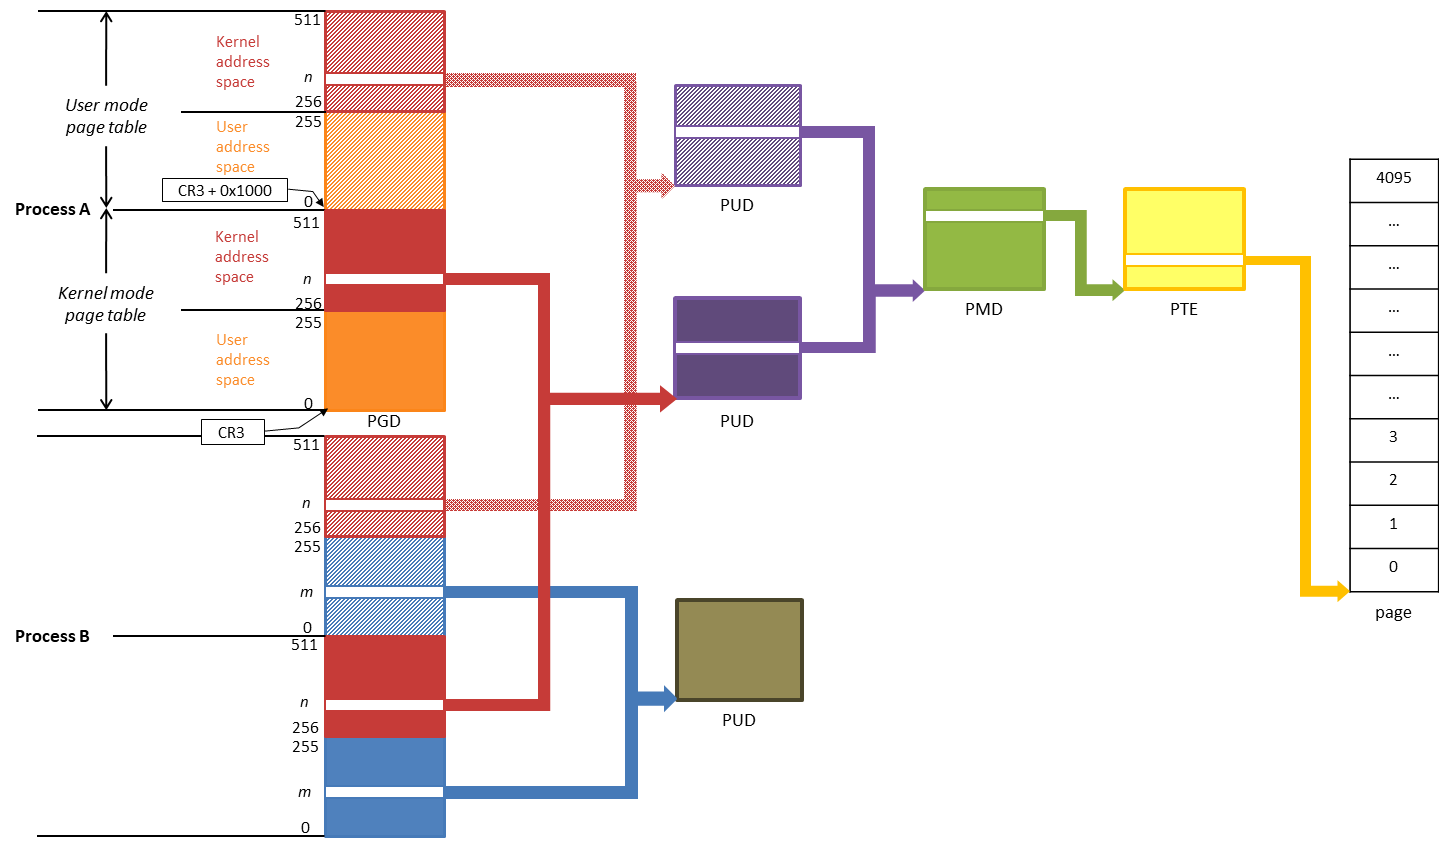
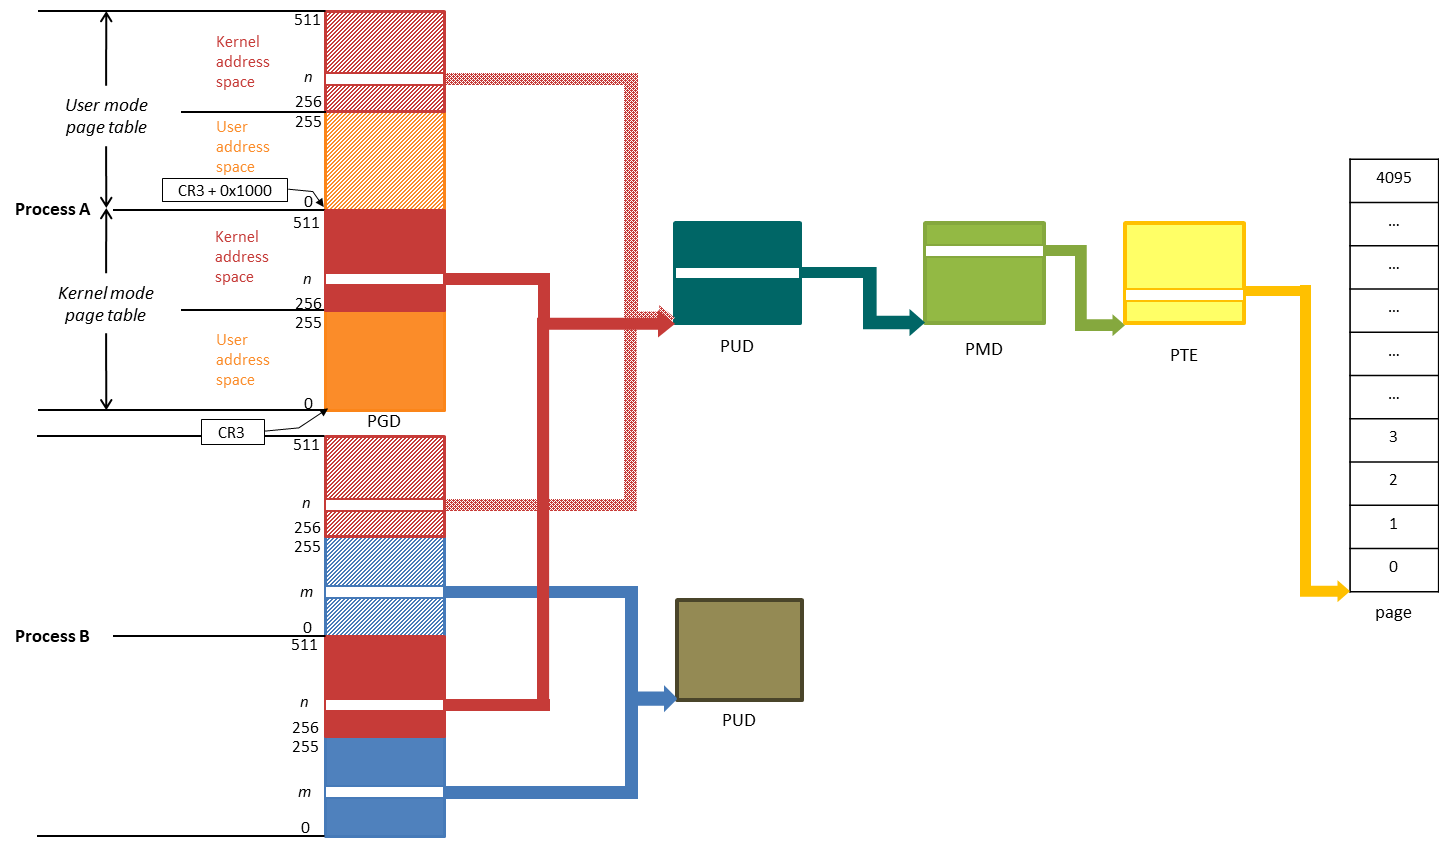
kpti and mm

Changed region(s): [[0.3669, 0.092, 0.9173, 0.5212]]

diff --git a/kernel/mm/mm_pagetable.md b/kernel/mm/mm_pagetable.md
@@ -1,0 +1,185 @@
+# 页表
+
+* *应用程序操作的对象* 是映射到物理内存之上的 *虚拟内存*。
+* CPU 直接操作的是 *物理内存*。
+* 应用程序访问一个虚拟地址时，MMU 先将虚拟地址转换成物理地址，然后处理器才能解析地址访问请求。
+* 地址转换需要通过查询 **[页表](https://en.wikipedia.org/wiki/Page_table)** 才能完成。
+  * 地址转换需要将虚拟地址分段，每段虚拟地址作为一个索引指向页表
+  * 页表项指出下一级别的页表所在的物理地址或者指向最终的物理页面。
+![http://45.79.74.171/wp-content/uploads/2013/09/page-1.gif](pic/mm_paging.gif)
+
+## 页表为什么要分级？
+* [Linux内核4级页表的演进](http://larmbr.com/2014/01/19/the-evolution-of-4-level-page-talbe-in-linux/)讲的蛮好
+* 简单地说，分级的目的是为了 **节省内存**
+  * 如果采用一个简单的大页表一对一映射虚拟地址到物理地址，需要较多的 **连续的物理页面(phsical page)**，因为是 **一对一** 映射，此时又未分级，所以必须是 **连续的**。
+  * 如果进程比较多，则需要大量的连续物理页，这不现实。
+  * 然而，在现实中，程序存在局部化特征, 这意味着在特定的时间内只有部分内存会被频繁访问，具体点，进程空间中的`.text`段(即程序代码), 堆， 共享库，栈都是固定在进程空间的某个特定部分，这样导致进程空间其实是非常稀疏的。
+  * 所谓 **分级** 简单说就是，把整个进程空间分成区块（block），区块下面可以再细分，这样在内存中只要常驻某个区块的页表即可，这样可以大量节省内存。
+  * 这里的套路是：
+    * 区块中的条目存的是下一级区块的 **基址** （物理地址）
+    * 将虚拟地址的不同位分别作为不同级别区块的 **索引**（可转化为 **偏移**）
+    * 只要提供 *最上级页目录的基址* 和 *虚拟地址*，即可采用 **基址 + 偏移** 的方式逐级索引至物理地址。
+  * 每个区块所需的空间并不大，而进程空间中未使用的地址无需建立对应的区块，因此每个进程的页表用的空间并不多，这样目的就达到了。
+
+## 四级页表
+![4 level page table](pic/mm_pt_4lv.png)
+* Linux x86-64 默认用的四级页表完成地址转换
+* x86-64 的四级页表用到了 48 位虚拟地址，虚拟地址段的划分是 **9-9-9-9-12**
+* 总共可管理 256 TB 的虚拟地址空间
+* 一个页表项的长度与`unsigned long`一致，在 64 位平台为 **8 Byte**
+* 顶级页表——**页全局目录（page global directory，PDG）**
+  * 包含一个`pdg_t`类型的数组
+  * 表项指向二级页目录 *PUD* 的物理基址
+  * 每个 PGD 页表项可管理 512 GB 虚拟地址
+* 二级页表——**PUD**
+  * `pud_t`类型数组
+  * 表项指向三级页目录 *PMD* 的物理基址
+  * 每个 PUD 页表项可管理 1 GB 虚拟地址
+* 三级页表——**中间页目录（page middle directory，PMD）**
+  * `pmd_t`类型数组
+  * 表项指向四级页目录 *PTE* 的物理基址
+  * 每个 PMD 页表项可管理 2 MB 虚拟地址
+* 四级页表——**PTE**
+  * 包含`pte_t`类型的页表项
+  * 页表项指向物理页面的基址
+  * 每个 PTE 页表项可管理 4 KB 虚拟地址
+* 由于默认采用的是 4KB（4096 = 2<sup>12</sup> = 2<<12）大小的 page，因此页分配时对齐到 4KB，这样页的首个物理的低 12 位必然是 0
+* 页表项的内容是物理基址，因此没有用上的低 12 位可以用来作为标志位
+* 目前，最高位也被用作标志位了，`_PAGE_NX` not-execuable 标志位
+
+### 实例：四级页表寻址
+* 略微改造了一下 `arch/x86/mm/pageattr.c::print_pte()`打印虚拟地址 `0xffffffffff5ff0a8` 的寻址过程
+* 得到结果如下：
+  ```
+  address: 0xffffffffff5ff0a8
+  pgd: 0x1e0e067
+  pud: 0x1e10067
+  pmd: 0x1e11067
+  kernel pte for 0xffffffffff5ff0a8: va:ffff880001e11ff8 val:0x8000000001ee4165 level:1
+  address: 0xffffffffff5ff0a8
+  pgd: 0x16d05067
+  pud: 0x16d0a067
+  pmd: 0x16d0b067
+  shadow pte for 0xffffffffff5ff0a8: va:ffff880016d0bff8 val:0x8000000001ee4065 level:1
+  ```
+#### 以 pmd -> pte 的过程为例
+
+##### 基址部分
+* PMD 页表项的内容为 PTE 页的物理基址，这里我们看到该物理页的基址为`0x1e11000`，记住，低 12 位是页表项标志位
+* 页表必然是一致映射，虚拟地址为 **物理地址加上偏移**，在未启用内核地址随机化时该偏移为`PAGE_OFFSET`，因此该 PTE 页的虚拟地址为`0xffff880001e11000`
+* arch/x86/include/asm/page.h
+  ```c
+  #ifndef __va
+  #define __va(x)         ((void *)((unsigned long)(x)+PAGE_OFFSET))
+  #endif
+  ```
+* arch/x86/include/asm/page_types.h
+  ```c
+  #define PAGE_OFFSET     ((unsigned long)__PAGE_OFFSET)
+  ```
+* arch/x86/include/asm/page_64_types.h
+  ```c
+  #ifdef CONFIG_X86_5LEVEL
+  #define __PAGE_OFFSET_BASE      _AC(0xff10000000000000, UL)
+  #else
+  #define __PAGE_OFFSET_BASE      _AC(0xffff880000000000, UL)
+  #endif
+
+  #ifdef CONFIG_RANDOMIZE_MEMORY
+  #define __PAGE_OFFSET           page_offset_base
+  #else
+  #define __PAGE_OFFSET           __PAGE_OFFSET_BASE
+  #endif /* CONFIG_RANDOMIZE_MEMORY */
+  ...__```
+  ```
+
+##### 偏移部分
+* 虚拟地址的低 48 位为 `0xffffff5ff0a8`，二进制为`1111 1111 1111 1111` `1111 1111 0101 1111` `1111 0000 1010 1000`
+* 其中，从 0 算起第 12-20 位为该地址在 PTE 页中的索引，也就是 `1 1111 1111`，注意，该值只是目录项索引，要想得到 PTE 页表项的虚拟地址，还需要用索引乘以页表项的长度得到该虚拟地址到基址的偏移，x86-64 的页表项长度为 8 Byte，可以将索引左移三位得到`1111 1111 1000`，即`0xff8`
+
+##### pte 页表项虚拟地址
+* 之前说过，分页寻址都是 **基址 + 偏移** 的套路，因此这里 pte 页表项虚拟地址为 `0xffff880001e11000 + 0xff8 = 0xffff880001e11ff8`
+* 可以看到，其内容为`0x8000000001ee4165`，其中
+  * 最高位的`0x8000000000000000`是`_PAGE_NX`标志位
+  * 低 12 位`0x165`是页表项的标志位
+  * `0x1ee4000`是 page 的物理基址，该地址偏移`0x0a8 Byte`处的内容即为虚拟地址 `0xffffffffff5ff0a8`最后要访问的内容
+
+
+## 五级页表
+![5 level page table](pic/mm_pt_5lv.png)
+* Linux x86-64 从 v4.14 开始支持五级页表完成地址转换
+* x86-64 的五级页表用到了 57 位虚拟地址，虚拟地址段的划分是 **9-9-9-9-9-12**
+* 总共可管理 128 PB 的虚拟地址空间
+* 顶级页表
+  * 每个 PGD 页表项可管理 256 TB 虚拟地址
+* 二级页表——新增的 **P4D**
+  * `p4d_t`类型数组
+  * 每个 P4D 页表项可管理 512 GB 虚拟地址
+* 三、四、五级页表 PUD、PMD、PTE，每级页表项可管理的虚拟地址空间范围与采用四级页表时的一致
+
+
+## MMU 和 缺页
+![page table level](pic/page_table_level.png)
+
+* 多数体系结构中，搜索页表的工作由硬件（如MMU）完成（至少某种程度上），但前提是内核正确设置页表。
+* 每个进程都有自己的页表，当然，线程会共享页表。
+  * `struct mm_struct`的`pgd_t *pgd`域指向进程的页全局目录 **PDG**。
+  * 注意：操作和检索页表使必须使用`struct mm_struct`中的`page_table_lock`锁，以防竞争。
+  * 当进程切换发生的时候，进程的给 **用户空间** 的页表也会随之切换。
+* **[翻译后缓冲器（translation lookaside buffer，TLB）](https://en.wikipedia.org/wiki/Translation_lookaside_buffer)**——为了加快从虚拟内存中页面到物理内存中对应地址的搜索，多数体系结构都实现了一个将虚拟地址映射到物理地址的硬件缓存。
+  * 当访问一个虚拟地址时，CPU的MMU先检查TLB中是否缓存了该虚拟地址到物理地址的映射，如果在缓存中直接命中，物理地址立刻返回。
+  * 否则，通过页表搜索需要的物理地址。
+  * TLB中缓冲的是 **页表条目（PTE）**，而不是物理页。因此TLB命中返回PTE给MMU后，节省了MMU去查询页表的时间，仍然需要通过cache/memory去获取内容。
+* **[MMU](https://en.wikipedia.org/wiki/Memory_management_unit)** 是一种负责处理中央处理器（CPU）的内存访问请求的计算机硬件。它的功能包括：
+  * 虚拟地址到物理地址的转换（即虚拟内存管理）
+  * 内存保护、CPU cache的控制
+  * 在较为简单的计算机体系结构中，负责总线的仲裁以及存储体切换（bank switching，尤其是在8位的系统上）
+*  **[缺页（page fault）](https://en.wikipedia.org/wiki/Page_fault)**
+
+> A **page fault** (sometimes called #PF, PF or hard fault[a]) is a type of interrupt, called trap, raised by computer hardware when a running program accesses a memory page that is mapped into the virtual address space, but not actually loaded into main memory. The hardware that detects a page fault is the processor's memory management unit (MMU), while the exception handling software that handles page faults is generally a part of the operating system kernel. When handling a page fault, the operating system generally tries to make the required page accessible at the location in physical memory, or terminates the program in case of an illegal memory access.
+
+* MMU 在缺页中的角色：
+  * *MMU* 作为活动的主体，查询 *页表*。
+  * 当发生缺页时，（硬件）引发缺页异常，将控制权交回内核（软件）处理。
+* 从页表的角度来说，发生 page fault 时，PTE 的状态可能是：
+  * PTE 是有的，虚拟地址曾经被使用过，但已被换出，PTE 的 *Present* flag 已被清除。
+  * 该虚拟地址从未被映射过，PTE 完全为空（全零）。
+* arch/x86/include/asm/pgtable.h
+```c
+static inline int pte_present(pte_t a)
+{
+    return pte_flags(a) & (_PAGE_PRESENT | _PAGE_PROTNONE);
+}
+```
+* arch/x86/include/asm/pgtable_types.h
+```c
+#define _PAGE_BIT_PRESENT   0   /* is present */
+...
+#define _PAGE_PRESENT   (_AT(pteval_t, 1) << _PAGE_BIT_PRESENT)
+...
+static inline pteval_t native_pte_val(pte_t pte)
+{
+    return pte.pte;
+}
+
+static inline pteval_t pte_flags(pte_t pte)
+{
+    return native_pte_val(pte) & PTE_FLAGS_MASK;
+}
+..._```
+```
+
+###### Classic page-table format used on the Intel x86, Pentium, and Pentium Pro family, as well as on the PowerPC 821 and 860 PowerQUICC processors.
+![http://www.lynx.com/wp-content/uploads/2013/08/mmu-fig2-02b-300x291.gif](pic/mmu-x86-paging.gif)
+* 这里只采用了两级页表。
+
+
+# 参考资料
+
+* [Using the Microprocessor MMU for Software Protection in Real-Time Systems](http://www.lynx.com/using-the-microprocessor-mmu-for-software-protection-in-real-time-systems/)
+* [Linux内核4级页表的演进](http://larmbr.com/2014/01/19/the-evolution-of-4-level-page-talbe-in-linux/)
+* [地址空间的归纳总结](http://alanwu.blog.51cto.com/3652632/1082195)
+* [PCI设备的地址空间](http://www.cnblogs.com/zszmhd/archive/2012/05/08/2490105.html)
+* [Linux内核追踪[4.14] X86的5级页表管理](http://blog.csdn.net/lovelycheng/article/details/78545502)
+* [lwn: Five-level page tables](https://lwn.net/Articles/717293/)
+* [lwn: x86: 5-level paging enabling for v4.12](https://lwn.net/Articles/716916/)

diff --git a/kernel/mm/mm-1-process_addr_spc.md b/kernel/mm/mm-1-process_addr_spc.md
@@ -618,80 +618,6 @@ MAP_NONBLOCK | Do not block on I/O.
   int munmap(void *addr, size_t length);
   ```
 
-# 页表
-
-* *应用程序操作的对象* 是映射到物理内存之上的 *虚拟内存*。
-* CPU直接操作的是 *物理内存*。
-* 应用程序访问一个虚拟地址时，要先将虚拟地址转换成物理地址，然后处理器才能解析地址访问请求。
-* 地址转换需要通过查询 **[页表](https://en.wikipedia.org/wiki/Page_table)** 才能完成。
-  * 地址转换需要将虚拟地址分段，每段虚拟地址作为一个索引指向页表
-  * 页表项指向下一级别的页表或者指向最终的物理页面。
-![http://45.79.74.171/wp-content/uploads/2013/09/page-1.gif](pic/mm_paging.gif)
-* Linux用的四级页表完成地址转换。
-* 顶级页表——**页全局目录（page global directory，PDG）**
-  * 包含一个`pdg_t`类型的数组，多数体系结构中等同于`unsigned long`
-  * 表项指向二级页目录中的表项 *PMD*
-* 二级页表——**PUD**
-* 三级页表——**中间页目录（page middle directory，PMD）**
-  * `pmd_t`类型数组
-  * 表项指向 *PTE* 中的表项
-* 最后一级页表——**页表（page table）**
-  * 包含`pte_t`类型的页表项 **（PTE）**
-  * 页表项指向物理页面
-
-![page table level](pic/page_table_level.png)
-
-* 多数体系结构中，搜索页表的工作由硬件（如MMU）完成（至少某种程度上），但前提是内核正确设置页表。
-* 每个进程都有自己的页表，当然，线程会共享页表。
-  * `struct mm_struct`的`pgd_t *pgd`域指向进程的页全局目录 **PDG**。
-  * 注意：操作和检索页表使必须使用`struct mm_struct`中的`page_table_lock`锁，以防竞争。
-  * 当进程切换发生的时候，进程的给 **用户空间** 的页表也会随之切换。
-* **[翻译后缓冲器（translation lookaside buffer，TLB）](https://en.wikipedia.org/wiki/Translation_lookaside_buffer)**——为了加快从虚拟内存中页面到物理内存中对应地址的搜索，多数体系结构都实现了一个将虚拟地址映射到物理地址的硬件缓存。
-  * 当访问一个虚拟地址时，CPU的MMU先检查TLB中是否缓存了该虚拟地址到物理地址的映射，如果在缓存中直接命中，物理地址立刻返回。
-  * 否则，通过页表搜索需要的物理地址。
-  * TLB中缓冲的是 **页表条目（PTE）**，而不是物理页。因此TLB命中返回PTE给MMU后，节省了MMU去查询页表的时间，仍然需要通过cache/memory去获取内容。
-* **[MMU](https://en.wikipedia.org/wiki/Memory_management_unit)** 是一种负责处理中央处理器（CPU）的内存访问请求的计算机硬件。它的功能包括：
-  * 虚拟地址到物理地址的转换（即虚拟内存管理）
-  * 内存保护、CPU cache的控制
-  * 在较为简单的计算机体系结构中，负责总线的仲裁以及存储体切换（bank switching，尤其是在8位的系统上）
-*  **[缺页（page fault）](https://en.wikipedia.org/wiki/Page_fault)**
-
-> A **page fault** (sometimes called #PF, PF or hard fault[a]) is a type of interrupt, called trap, raised by computer hardware when a running program accesses a memory page that is mapped into the virtual address space, but not actually loaded into main memory. The hardware that detects a page fault is the processor's memory management unit (MMU), while the exception handling software that handles page faults is generally a part of the operating system kernel. When handling a page fault, the operating system generally tries to make the required page accessible at the location in physical memory, or terminates the program in case of an illegal memory access.
-
-* MMU在缺页中的角色：
-  * *MMU* 作为活动的主体，查询 *页表*。
-  * 当发生缺页时，（硬件）引发缺页异常，将控制权交回内核（软件）处理。
-* 从页表的角度来说，发生page fault时，PTE的状态可能是：
-  * PTE是有的，虚拟地址曾经被使用过，但已被换出，PTE的 *Present* flag已被清除。
-  * 该虚拟地址从未被映射过，PTE完全为空（全零）。
-* arch/x86/include/asm/pgtable.h
-```c
-static inline int pte_present(pte_t a)
-{
-    return pte_flags(a) & (_PAGE_PRESENT | _PAGE_PROTNONE);
-}
-```
-* arch/x86/include/asm/pgtable_types.h
-```c
-#define _PAGE_BIT_PRESENT   0   /* is present */
-...
-#define _PAGE_PRESENT   (_AT(pteval_t, 1) << _PAGE_BIT_PRESENT)
-...
-static inline pteval_t native_pte_val(pte_t pte)
-{
-    return pte.pte;
-}
-
-static inline pteval_t pte_flags(pte_t pte)
-{
-    return native_pte_val(pte) & PTE_FLAGS_MASK;
-}
-...
-```
-###### Classic page-table format used on the Intel x86, Pentium, and Pentium Pro family, as well as on the PowerPC 821 and 860 PowerQUICC processors.
-![http://www.lynx.com/wp-content/uploads/2013/08/mmu-fig2-02b-300x291.gif](pic/mmu-x86-paging.gif)
-* 这里只采用了两级页表。
-
 # 题外话
 ## 共享库、静态链接和二进制程序在运行时对内存消耗有怎样的影响？
 * 这里要明确的一点是，共享库对减小存储器（硬盘、flash）的消耗肯定是有一定帮助的。
@@ -702,18 +628,6 @@ static inline pteval_t pte_flags(pte_t pte)
   * 对于链接到同一共享库的 **不同程序** 来说，则可以从共享库的映射中获得好处，因为同一共享库的`.text`只会映射到同一物理页。如，bash 和 vi 都链接到的 libc.so 共享同一物理页。
   * 用静态链接显然就没有这一好处了，静态链接实际上把内容合并到程序的二进制文件中，在运行不同程序时无法区分这些相同的内容，因此必然会消耗更多的内存。
 
-## 页表为什么要分级？
-* [Linux内核4级页表的演进](http://larmbr.com/2014/01/19/the-evolution-of-4-level-page-talbe-in-linux/)讲的蛮好
-* 简单地说，分级的目的是为了 **节省内存**
-  * 如果采用一个简单的大页表一对一映射虚拟地址到物理地址，需要较多的 **连续的物理页面(phsical page)**，因为是 **一对一** 映射，此时又未分级，所以必须是 **连续的**。
-  * 如果进程比较多，则需要大量的连续物理页，这不现实。
-  * 然而，在现实中，程序存在局部化特征, 这意味着在特定的时间内只有部分内存会被频繁访问，具体点，进程空间中的`.text`段(即程序代码), 堆， 共享库，栈都是固定在进程空间的某个特定部分，这样导致进程空间其实是非常稀疏的。
-  * 所谓 **分级** 简单说就是，把整个进程空间分成区块（block），区块下面可以再细分，这样在内存中只要常驻某个区块的页表即可，这样可以大量节省内存。
-  * 这里的套路是：
-    * 区块中的条目存的是下一级区块的 **基址** （物理地址）
-    * 将虚拟地址的不同位分别作为不同级别区块的 **索引**（也就是 **偏移**）
-    * 只要提供 *最上级页目录的基址* 和 *虚拟地址*，即可采用 **基址 + 偏移** 的方式逐级索引至物理地址。
-  * 每个区块所需的空间并不大，而进程空间中未使用的地址无需建立对应的区块，因此每个进程的页表用的空间并不多，这样目的就达到了。
 
 # 参考资料
 
@@ -722,9 +636,3 @@ static inline pteval_t pte_flags(pte_t pte)
 * [The Performance Impact of Kernel Prefetching on Buffer Cache Replacement Algorithms](http://www.cs.arizona.edu/projects/dream/papers/sigm05_prefetch.pdf)
 * [Linux Cache 机制探究](http://www.penglixun.com/tech/system/linux_cache_discovery.html)
 * [Using the Microprocessor MMU for Software Protection in Real-Time Systems](http://www.lynx.com/using-the-microprocessor-mmu-for-software-protection-in-real-time-systems/)
-* [Linux内核4级页表的演进](http://larmbr.com/2014/01/19/the-evolution-of-4-level-page-talbe-in-linux/)
-* [地址空间的归纳总结](http://alanwu.blog.51cto.com/3652632/1082195)
-* [PCI设备的地址空间](http://www.cnblogs.com/zszmhd/archive/2012/05/08/2490105.html)
-* [Linux内核追踪[4.14] X86的5级页表管理](http://blog.csdn.net/lovelycheng/article/details/78545502)
-* [lwn: Five-level page tables](https://lwn.net/Articles/717293/)
-* [lwn: x86: 5-level paging enabling for v4.12](https://lwn.net/Articles/716916/)

diff --git a/kernel/issues/kpti/kpti.md b/kernel/issues/kpti/kpti.md
@@ -1,6 +1,8 @@
 # KPTI
 ## 目录
 - [KPTI与KAISER](#KPTI与KAISER)
+	- [内核地址空间的页表映射](#内核地址空间的页表映射)
+	- [用户地址空间的页表映射](#用户地址空间的页表映射)
 - [上游仓库的pti分支](#上游仓库的pti分支)
 - [pti.c](#ptic)
 - [进程页表的创建](#进程页表的创建)
@@ -24,14 +26,31 @@
 * 对于 **同一进程**，内核态页表与用户态页表用于映射内核地址空间部分的页表项是 **不同的**，这就是 **页表隔离**。
 * 并非所有的内核页表条目在用户态页表内有克隆，仅仅是处理系统调用、中断、中断描述符、trace等最必要的一部分内核地址空间页表在用户态页表有克隆，否则切换`cr3`之后剩余的一些必要的内核代码无法执行或数据无法访问了。
 
+#### 四级页表——共享PUD
 ![pic/kpti_krnl.png](pic/kpti_krnl.png)
+* 对于某一段内核地址空间可以采用如下映射方式
+	* 同一进程内核态页表和用户态页表的 PGD 页表项都存的是同一个 PUD 页的物理地址
+	* 不同进程由于都是从父进程 clone 过来的，因此也共享该 PUD 页
+
+#### 四级页表——共享page
+![pic/kpti_krnl.png](pic/kpti_krnl_4lv.png)
+* 对于某一段内核地址空间也可以采用如下映射方式
+	* 内核态页表和用户态页表的各级页表都分配不同的 page 来存放下一级页表物理基址
+	* 直到 PTE 一级才在内核态页表和用户态页表填入相同的 page 物理基址
+
+#### 五级页表——共享PUD
+![pic/kpti_krnl.png](pic/kpti_krnl_5lv.png)
+* **四级页表——共享PUD** 是 **五级页表——共享PUD** 的简化方式，因为四级页表没有 P4D
 
 ### 用户地址空间的页表映射
+![pic/kpti_user.png](pic/kpti_user.png)
 * 用于映射用户地址空间的页表，**不同进程之间** 不共享（和原来的一样，也是虚拟内存管理的关键点之一）。
 * 和过去不同的是，对于 **同一进程** 来说，新增的用户态页表用于映射用户地址空间的页表项与内核态页表的页表项相同，自第二级页表开始共享。用户地址空间当然不需要页表隔离。
-* 建立新进程时，先填充用户态页表用于映射用户地址空间的页表项，后填充内核态页表。
-* 不隔离不意味着完全相同，填充内核态页表项时，KPTI 会给页表项加上`_PAGE_NX`标志，阻止执行内核态页表所映射用户地址空间的代码。在 KAISER patch 里把这一步骤叫 *毒化（poison）*。
-![pic/kpti_user.png](pic/kpti_user.png)
+* 建立新进程时，
+	1. 先分配 PGD
+	2. 再填充内核态页表和用户态页表的内核地址空间部分`dup_mm -> mm_init`
+	3. 后填充填充内核态页表和用户态页表的进程地址空间部分`dup_mm -> dup_mmap`。
+* 不隔离不意味着完全相同，填充内核态页表项时，KPTI 会给页表项加上`_PAGE_NX`标志，以阻止执行内核态页表所映射用户地址空间的代码。在 KAISER patch 里把这一步骤叫 *毒化（poison）*。
 
 ## 上游仓库的pti分支
 * 可以跟踪 upstream 的 [tip/x86/pti](https://git.kernel.org/pub/scm/linux/kernel/git/tip/tip.git/?h=x86%2Fpti) 分支获得该问题 fix 的最新动态

diff --git a/README.md b/README.md
@@ -30,6 +30,7 @@
 
 ## 内存管理
 - [内存管理](https://github.com/freelancer-leon/notes/blob/master/kernel/mm/mm.md)
+- [分页管理](https://github.com/freelancer-leon/notes/blob/master/kernel/mm/mm_pagetable.md)
 - [进程地址空间](https://github.com/freelancer-leon/notes/blob/master/kernel/mm/mm-1-process_addr_spc.md)
 - [slub](https://github.com/freelancer-leon/notes/blob/master/kernel/mm/slub.md)
 
